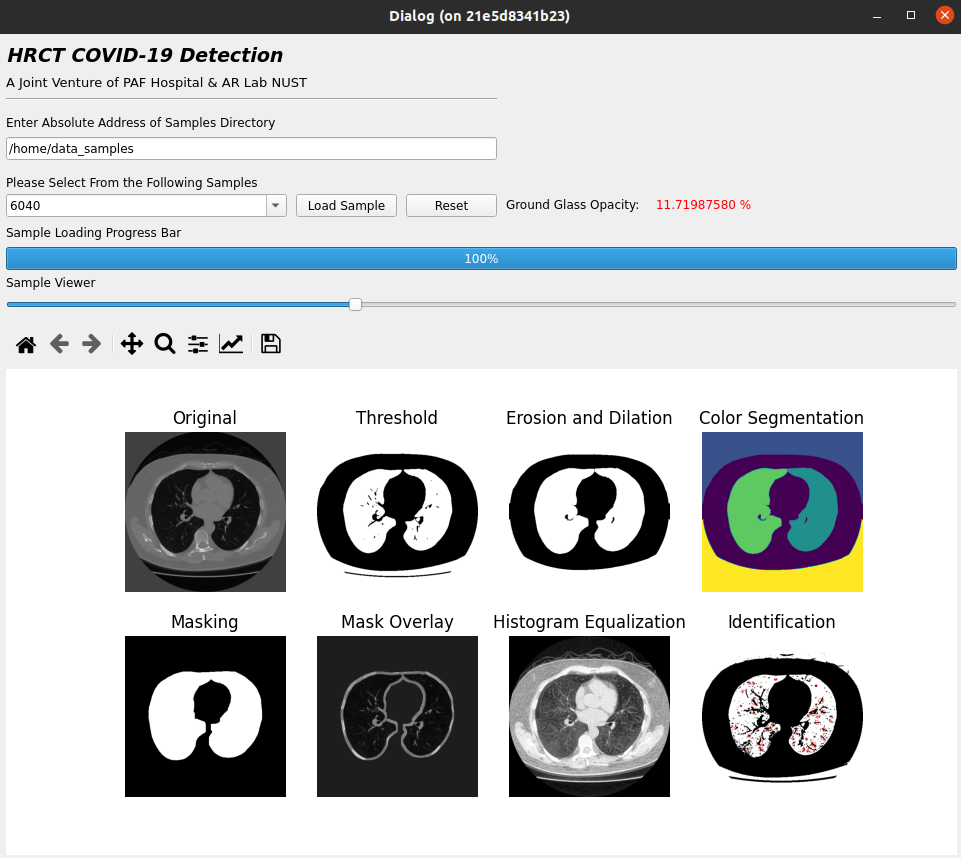
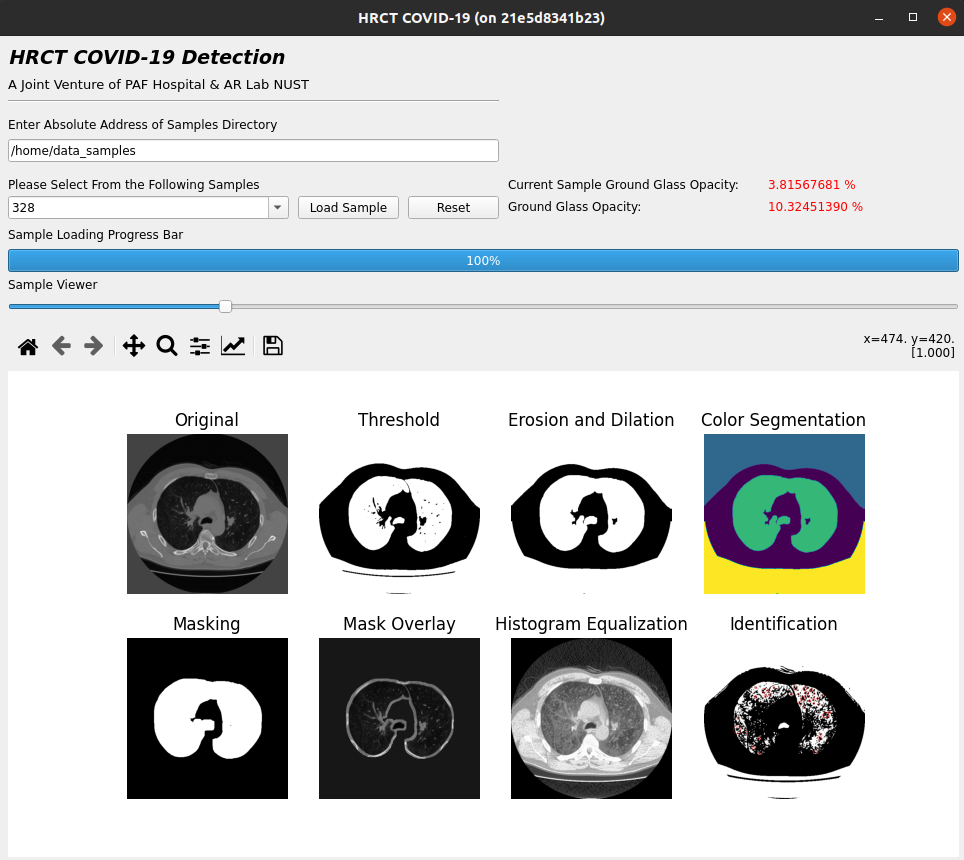
Added Per Sample Ground Glass opacity

diff --git a/hrct.py b/hrct.py
@@ -9,6 +9,7 @@
 # WARNING: Any manual changes made to this file will be lost when pyuic5 is
 # run again.  Do not edit this file unless you know what you are doing.
 
+
 # %%
 # Importing Libraries
 from PyQt5 import QtCore, QtGui, QtWidgets
@@ -220,25 +221,19 @@ class Ui_HRCT(object):
         self.reset1 = QtWidgets.QPushButton(HRCT)
         self.reset1.setGeometry(QtCore.QRect(410, 160, 91, 23))
         self.reset1.setObjectName("reset1")
-        self.ggo_label = QtWidgets.QLabel(HRCT)
-        self.ggo_label.setGeometry(QtCore.QRect(510, 160, 141, 21))
-        self.ggo_label.setObjectName("ggo_label")
-        self.ggo_value = QtWidgets.QLabel(HRCT)
-        self.ggo_value.setGeometry(QtCore.QRect(660, 160, 161, 21))
-        self.ggo_value.setObjectName("ggo_value")
         self.verticalLayoutWidget = QtWidgets.QWidget(HRCT)
         self.verticalLayoutWidget.setGeometry(QtCore.QRect(10, 290, 951, 531))
         self.verticalLayoutWidget.setObjectName("verticalLayoutWidget")
         self.plotlayout = QtWidgets.QVBoxLayout(self.verticalLayoutWidget)
         self.plotlayout.setContentsMargins(0, 0, 0, 0)
         self.plotlayout.setObjectName("plotlayout")
-        self.widget = QtWidgets.QWidget(HRCT)
-        self.widget.setGeometry(QtCore.QRect(10, 10, 491, 57))
-        self.widget.setObjectName("widget")
-        self.mainheader1 = QtWidgets.QVBoxLayout(self.widget)
+        self.layoutWidget = QtWidgets.QWidget(HRCT)
+        self.layoutWidget.setGeometry(QtCore.QRect(10, 10, 491, 57))
+        self.layoutWidget.setObjectName("layoutWidget")
+        self.mainheader1 = QtWidgets.QVBoxLayout(self.layoutWidget)
         self.mainheader1.setContentsMargins(0, 0, 0, 0)
         self.mainheader1.setObjectName("mainheader1")
-        self.header1 = QtWidgets.QLabel(self.widget)
+        self.header1 = QtWidgets.QLabel(self.layoutWidget)
         font = QtGui.QFont()
         font.setFamily("Sans Serif")
         font.setPointSize(14)
@@ -249,72 +244,98 @@ class Ui_HRCT(object):
         self.header1.setFont(font)
         self.header1.setObjectName("header1")
         self.mainheader1.addWidget(self.header1)
-        self.subheader1 = QtWidgets.QLabel(self.widget)
+        self.subheader1 = QtWidgets.QLabel(self.layoutWidget)
         font = QtGui.QFont()
         font.setPointSize(10)
         self.subheader1.setFont(font)
         self.subheader1.setObjectName("subheader1")
         self.mainheader1.addWidget(self.subheader1)
-        self.div1 = QtWidgets.QFrame(self.widget)
+        self.div1 = QtWidgets.QFrame(self.layoutWidget)
         self.div1.setFrameShape(QtWidgets.QFrame.HLine)
         self.div1.setFrameShadow(QtWidgets.QFrame.Sunken)
         self.div1.setObjectName("div1")
         self.mainheader1.addWidget(self.div1)
-        self.widget1 = QtWidgets.QWidget(HRCT)
-        self.widget1.setGeometry(QtCore.QRect(10, 80, 491, 46))
-        self.widget1.setObjectName("widget1")
-        self.homedirectory = QtWidgets.QVBoxLayout(self.widget1)
+        self.layoutWidget1 = QtWidgets.QWidget(HRCT)
+        self.layoutWidget1.setGeometry(QtCore.QRect(10, 80, 491, 46))
+        self.layoutWidget1.setObjectName("layoutWidget1")
+        self.homedirectory = QtWidgets.QVBoxLayout(self.layoutWidget1)
         self.homedirectory.setContentsMargins(0, 0, 0, 0)
         self.homedirectory.setObjectName("homedirectory")
-        self.instruct2 = QtWidgets.QLabel(self.widget1)
+        self.instruct2 = QtWidgets.QLabel(self.layoutWidget1)
         self.instruct2.setObjectName("instruct2")
         self.homedirectory.addWidget(self.instruct2)
-        self.gethomedir = QtWidgets.QLineEdit(self.widget1)
+        self.gethomedir = QtWidgets.QLineEdit(self.layoutWidget1)
         self.gethomedir.setObjectName("gethomedir")
         self.homedirectory.addWidget(self.gethomedir)
-        self.widget2 = QtWidgets.QWidget(HRCT)
-        self.widget2.setGeometry(QtCore.QRect(10, 190, 951, 46))
-        self.widget2.setObjectName("widget2")
-        self.loaderbar1 = QtWidgets.QVBoxLayout(self.widget2)
+        self.layoutWidget2 = QtWidgets.QWidget(HRCT)
+        self.layoutWidget2.setGeometry(QtCore.QRect(10, 190, 951, 46))
+        self.layoutWidget2.setObjectName("layoutWidget2")
+        self.loaderbar1 = QtWidgets.QVBoxLayout(self.layoutWidget2)
         self.loaderbar1.setContentsMargins(0, 0, 0, 0)
         self.loaderbar1.setObjectName("loaderbar1")
-        self.loaderlabel = QtWidgets.QLabel(self.widget2)
+        self.loaderlabel = QtWidgets.QLabel(self.layoutWidget2)
         self.loaderlabel.setObjectName("loaderlabel")
         self.loaderbar1.addWidget(self.loaderlabel)
-        self.loaderprogress = QtWidgets.QProgressBar(self.widget2)
+        self.loaderprogress = QtWidgets.QProgressBar(self.layoutWidget2)
         self.loaderprogress.setProperty("value", 0)
         self.loaderprogress.setObjectName("loaderprogress")
         self.loaderbar1.addWidget(self.loaderprogress)
-        self.widget3 = QtWidgets.QWidget(HRCT)
-        self.widget3.setGeometry(QtCore.QRect(10, 240, 951, 38))
-        self.widget3.setObjectName("widget3")
-        self.viewer1 = QtWidgets.QVBoxLayout(self.widget3)
+        self.layoutWidget3 = QtWidgets.QWidget(HRCT)
+        self.layoutWidget3.setGeometry(QtCore.QRect(10, 240, 951, 38))
+        self.layoutWidget3.setObjectName("layoutWidget3")
+        self.viewer1 = QtWidgets.QVBoxLayout(self.layoutWidget3)
         self.viewer1.setContentsMargins(0, 0, 0, 0)
         self.viewer1.setObjectName("viewer1")
-        self.viewerlabel1 = QtWidgets.QLabel(self.widget3)
+        self.viewerlabel1 = QtWidgets.QLabel(self.layoutWidget3)
         self.viewerlabel1.setObjectName("viewerlabel1")
         self.viewer1.addWidget(self.viewerlabel1)
-        self.slider1 = QtWidgets.QSlider(self.widget3)
+        self.slider1 = QtWidgets.QSlider(self.layoutWidget3)
         self.slider1.setOrientation(QtCore.Qt.Horizontal)
         self.slider1.setObjectName("slider1")
         self.viewer1.addWidget(self.slider1)
+        self.layoutWidget4 = QtWidgets.QWidget(HRCT)
+        self.layoutWidget4.setGeometry(QtCore.QRect(510, 140, 251, 38))
+        self.layoutWidget4.setObjectName("layoutWidget4")
+        self.ggolabel_layout = QtWidgets.QVBoxLayout(self.layoutWidget4)
+        self.ggolabel_layout.setContentsMargins(0, 0, 0, 0)
+        self.ggolabel_layout.setObjectName("ggolabel_layout")
+        self.cggo_label = QtWidgets.QLabel(self.layoutWidget4)
+        self.cggo_label.setObjectName("cggo_label")
+        self.ggolabel_layout.addWidget(self.cggo_label)
+        self.ggo_label = QtWidgets.QLabel(self.layoutWidget4)
+        self.ggo_label.setObjectName("ggo_label")
+        self.ggolabel_layout.addWidget(self.ggo_label)
+        self.layoutWidget5 = QtWidgets.QWidget(HRCT)
+        self.layoutWidget5.setGeometry(QtCore.QRect(770, 140, 131, 38))
+        self.layoutWidget5.setObjectName("layoutWidget5")
+        self.ggovalue_layout = QtWidgets.QVBoxLayout(self.layoutWidget5)
+        self.ggovalue_layout.setContentsMargins(0, 0, 0, 0)
+        self.ggovalue_layout.setObjectName("ggovalue_layout")
+        self.cggo_value = QtWidgets.QLabel(self.layoutWidget5)
+        self.cggo_value.setObjectName("cggo_value")
+        self.ggovalue_layout.addWidget(self.cggo_value)
+        self.ggo_value = QtWidgets.QLabel(self.layoutWidget5)
+        self.ggo_value.setObjectName("ggo_value")
+        self.ggovalue_layout.addWidget(self.ggo_value)
 
         self.retranslateUi(HRCT)
         QtCore.QMetaObject.connectSlotsByName(HRCT)
 
     def retranslateUi(self, HRCT):
         _translate = QtCore.QCoreApplication.translate
-        HRCT.setWindowTitle(_translate("HRCT", "HRCT"))
+        HRCT.setWindowTitle(_translate("HRCT", "HRCT COVID-19"))
         self.instruct1.setText(_translate("HRCT", "Please Select From the Following Samples"))
         self.loader1.setText(_translate("HRCT", "Load Sample"))
         self.reset1.setText(_translate("HRCT", "Reset"))
-        self.ggo_label.setText(_translate("HRCT", "Ground Glass Opacity:"))
-        self.ggo_value.setText(_translate("HRCT", "Null"))
         self.header1.setText(_translate("HRCT", "HRCT COVID-19 Detection"))
         self.subheader1.setText(_translate("HRCT", "A Joint Venture of PAF Hospital & AR Lab NUST"))
         self.instruct2.setText(_translate("HRCT", "Enter Absolute Address of Samples Directory"))
         self.loaderlabel.setText(_translate("HRCT", "Sample Loading Progress Bar"))
         self.viewerlabel1.setText(_translate("HRCT", "Sample Viewer"))
+        self.cggo_label.setText(_translate("HRCT", "Current Sample Ground Glass Opacity:"))
+        self.ggo_label.setText(_translate("HRCT", "Ground Glass Opacity:"))
+        self.cggo_value.setText(_translate("HRCT", "Null"))
+        self.ggo_value.setText(_translate("HRCT", "Null"))
         self.starter()
     
     def starter(self):
@@ -334,6 +355,7 @@ class Ui_HRCT(object):
         self.loader1.clicked.connect(self.loader_clicker)
         self.reset1.clicked.connect(self.reseter1)
         self.slider1.valueChanged.connect(self.slider_changer)
+        self.multi_factor= 2
     
     def get_home_directory(self, dir):
         """
@@ -398,10 +420,10 @@ class Ui_HRCT(object):
                 self.loaderprogress.setValue(int((i/len(self.current_scan.scan_stack))*100)+1)
             self.total_ggo = (blob_area / mask_area) * 100
             _translate = QtCore.QCoreApplication.translate
-            if (self.total_ggo*2)>=50:
+            if (self.total_ggo*self.multi_factor)>=50:
                 self.ggo_value.setText(_translate("Dialog", '{:.8f} %'.format(self.total_ggo)))
             else:
-                self.ggo_value.setText(_translate("Dialog", '{:.8f} %'.format(self.total_ggo*2)))
+                self.ggo_value.setText(_translate("Dialog", '{:.8f} %'.format(self.total_ggo * self.multi_factor)))
             self.ggo_value.setStyleSheet("color: red;")
             self.slider1.setMinimum(0)
             self.slider1.setMaximum(len(self.current_scan.all_masks)-1)
@@ -417,6 +439,7 @@ class Ui_HRCT(object):
         val1: Value of slider
         """
         if self.img_data_available == True:
+            _translate = QtCore.QCoreApplication.translate
             instance = self.current_scan.all_masks[val1]
             raw_img, thres_img, dilated, colored_labels, raw_mask = instance['raw_img'], instance['threshold'], instance['dilated'], instance['colored'], instance['raw_mask']
             applied_mask, hist_equal, identify, area1 = instance['applied_mask'], instance['histogram_equal'], instance['identify'], (instance['blob_area']/instance['mask_area'])*100
@@ -453,6 +476,8 @@ class Ui_HRCT(object):
             ax6.axis('off')
             ax7.axis('off')
             ax8.axis('off')
+            self.cggo_value.setText(_translate("Dialog", '{:.8f} %'.format(area1)))
+            self.cggo_value.setStyleSheet("color: red;")
             self.canvas.draw()
 
     def reseter1(self, clicker):
@@ -472,6 +497,9 @@ class Ui_HRCT(object):
         self.get_home_directory(self.home_dir)
         self.ggo_value.setText(_translate("Dialog", "Null"))
         self.ggo_value.setStyleSheet("color: black;")
+        self.cggo_value.setText(_translate("Dialog", "Null"))
+        self.cggo_value.setStyleSheet("color: black;")
+        self.sample_ggo = list()
         self.loaderprogress.setValue(0)
         self.slider1.setMinimum(0)
         self.slider1.setMaximum(1)
